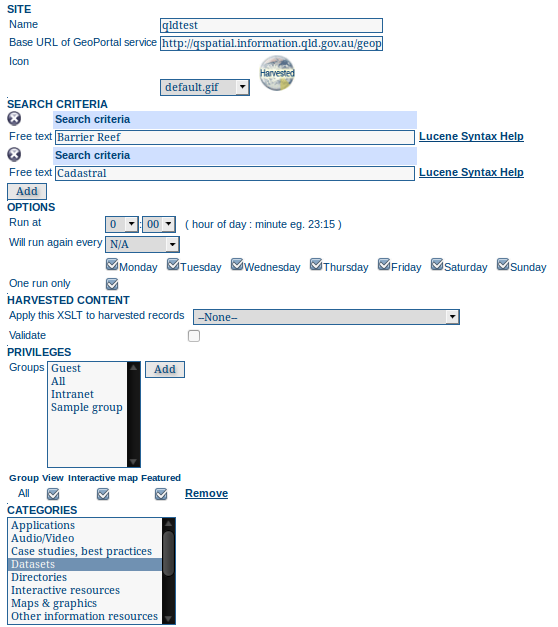
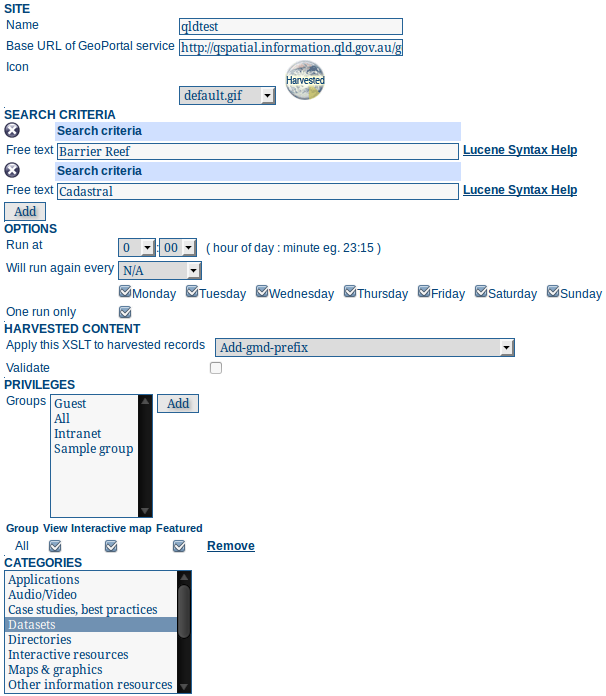
Add extra discussion on Geoportal REST harvester

Changed region(s): [[0.0, 0.0, 1.0, 1.0], [0.2133, 0.5455, 0.3351, 0.6061]]

diff --git a/eng/users/source/managing_metadata/harvesting/geoPREST/index.rst b/eng/users/source/managing_metadata/harvesting/geoPREST/index.rst
@@ -28,7 +28,7 @@ The figure above shows the options available:
 
 - **Harvested Content** - Options that are applied to harvested content.
 
-  - *Apply this XSLT to harvested records* - Choose an XSLT here that will convert harvested records to a different format.
+  - *Apply this XSLT to harvested records* - Choose an XSLT here that will convert harvested records to a different format. See notes section below for typical usage.
   - *Validate* - If checked, the metadata will be validated after retrieval. If the validation does not pass, the metadata will be skipped. 
 
 - **Privileges** - Assign privileges to harvested metadata. 
@@ -46,7 +46,9 @@ Notes
 
 - this harvester uses two REST services from the GeoPortal API: 
 
- - ``rest/find/document`` with searchText parameter to return an RSS listing of metadata records that meet the search criteria 
+ - ``rest/find/document`` with searchText parameter to return an RSS listing of metadata records that meet the search criteria (maximum 100000)
  - ``rest/document`` with id parameter from each result returned in the RSS listing
 
-- this harvester has been tested with GeoPortal 9.3.x. It should be used for that version of GeoPortal in preference to the CSW harvester.
+- this harvester has been tested with GeoPortal 9.3.x. It should be used for that version of GeoPortal in preference to the CSW harvester
+
+- typically ISO19115 metadata produced by the Geoportal software will not have a 'gmd' prefix for the namespace ``http://www.isotc211.org/2005/gmd``. GeoNetwork XSLTs will not have any trouble understanding this metadata but will not be able to map titles and codelists in the viewer/editor. To fix this problem, please select the `Add-gmd-prefix` XSLT for the *Apply this XSLT to harvested records* in the **Harvested Content** set of options described earlier
